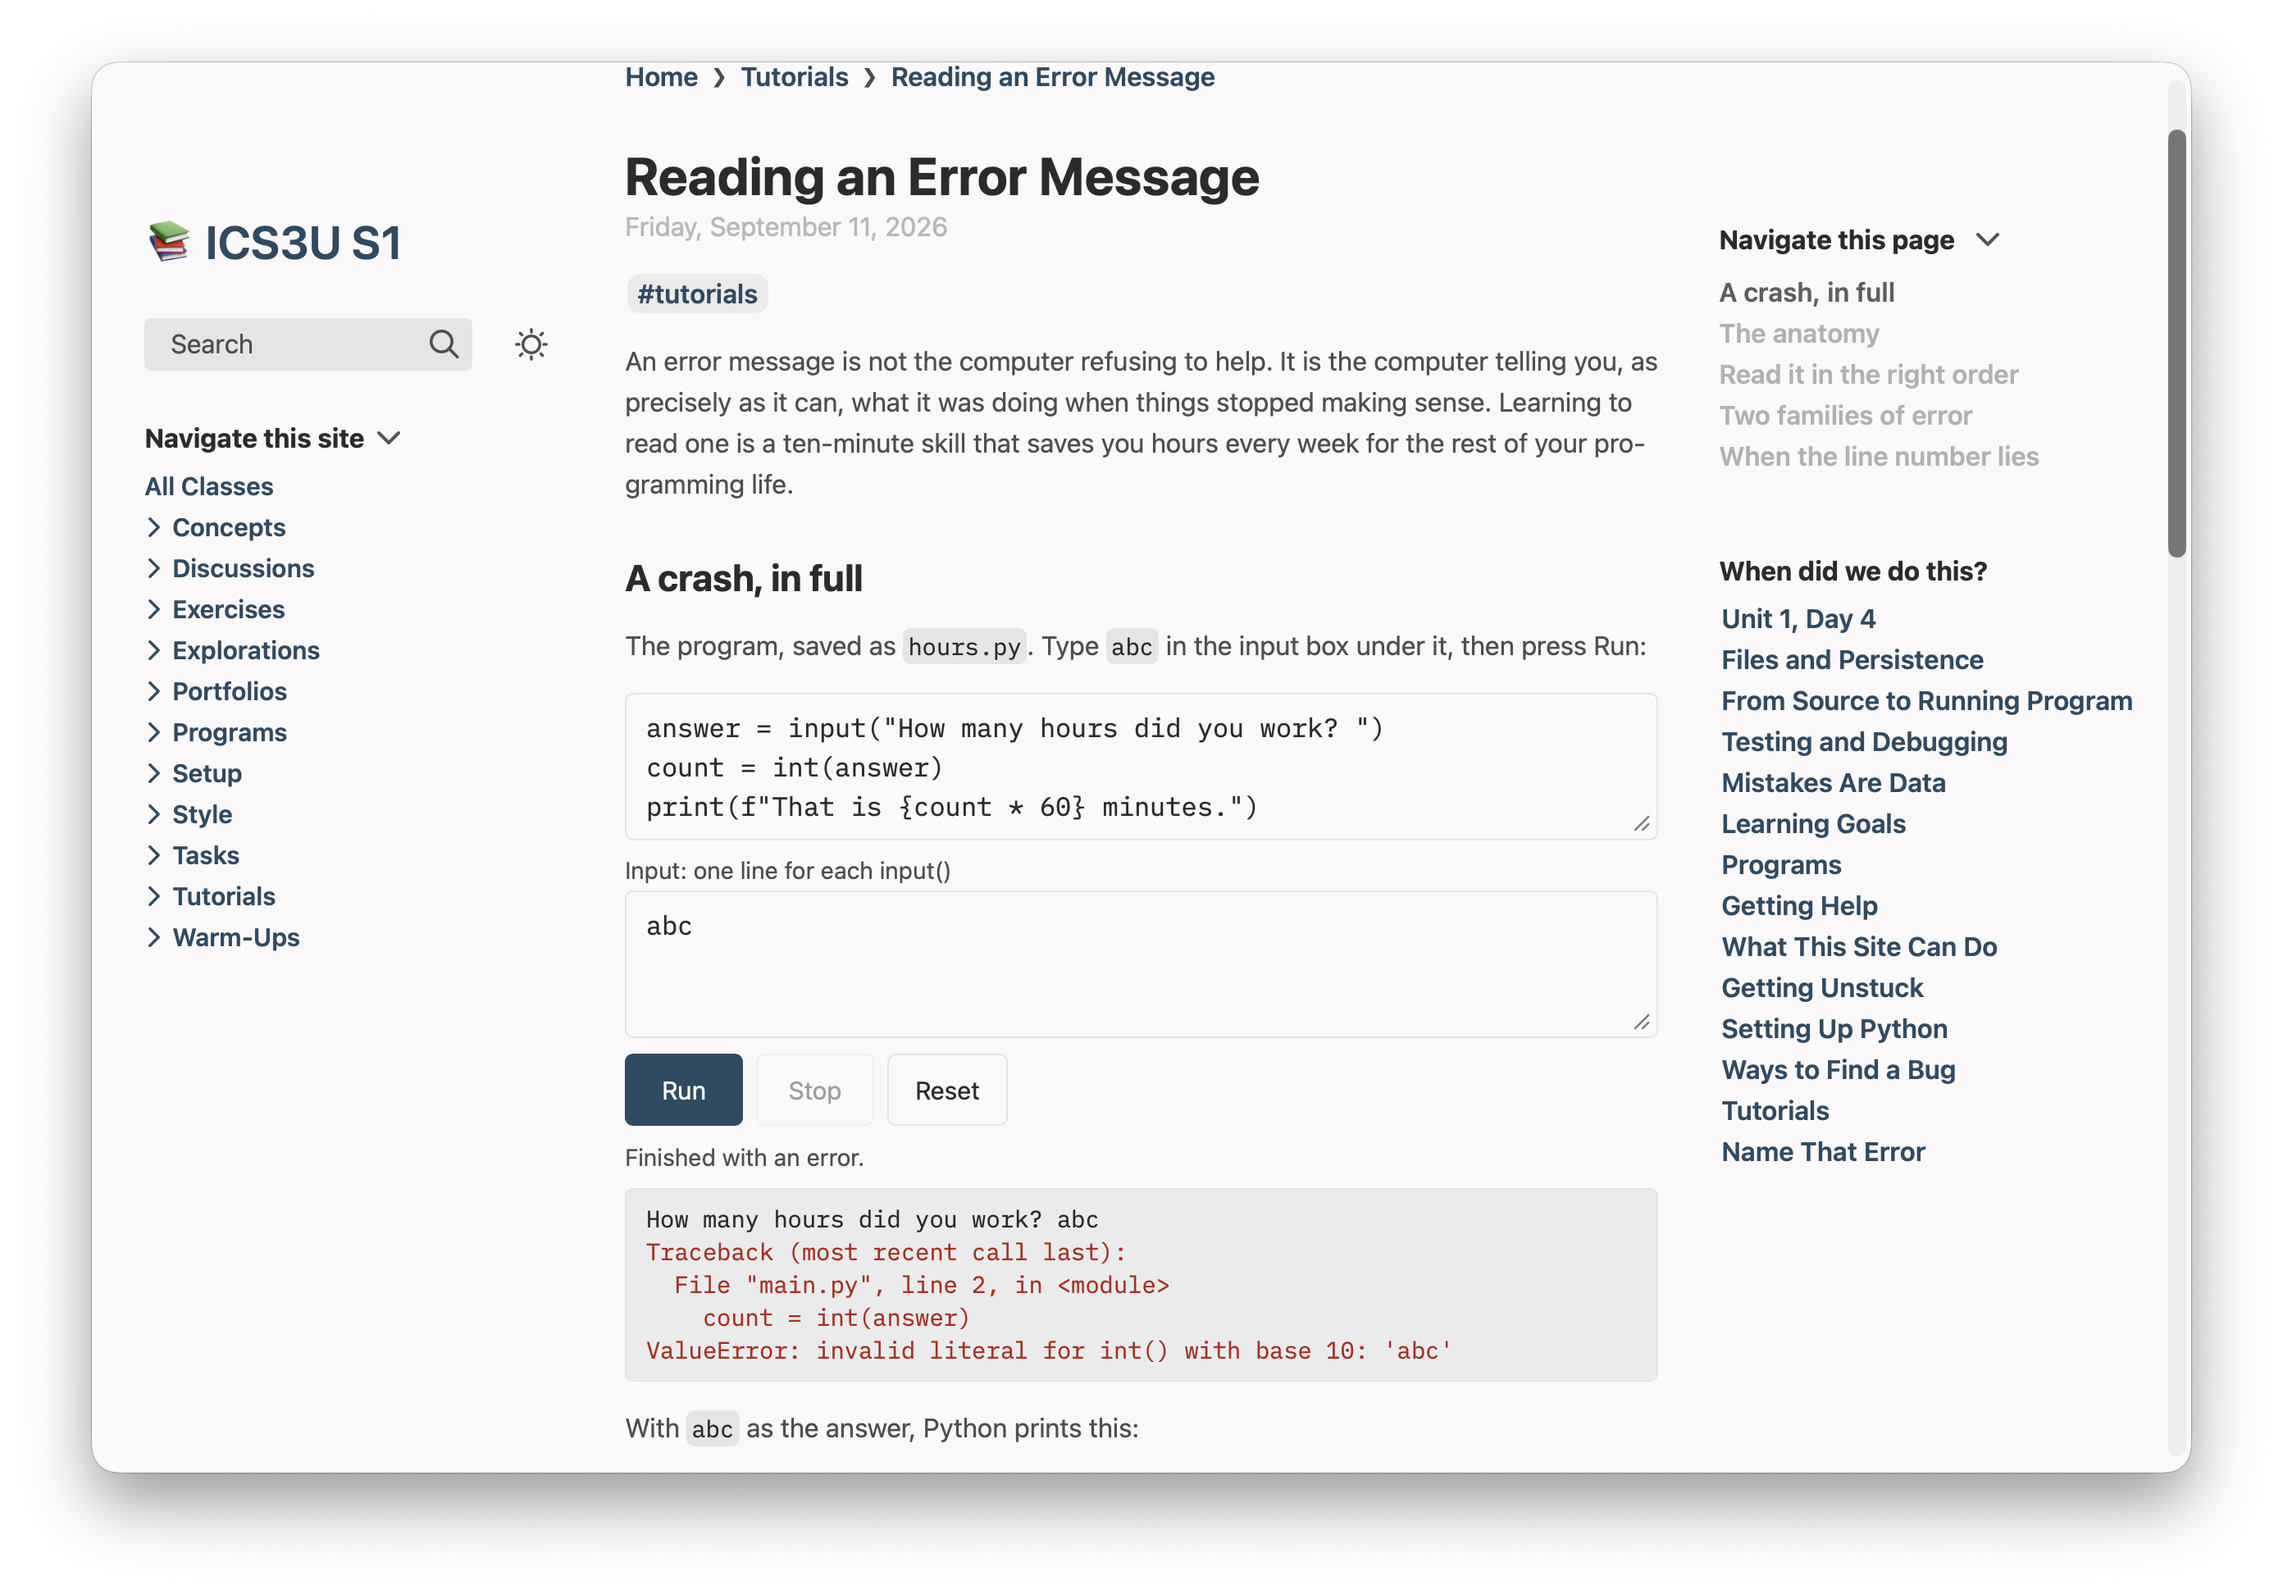
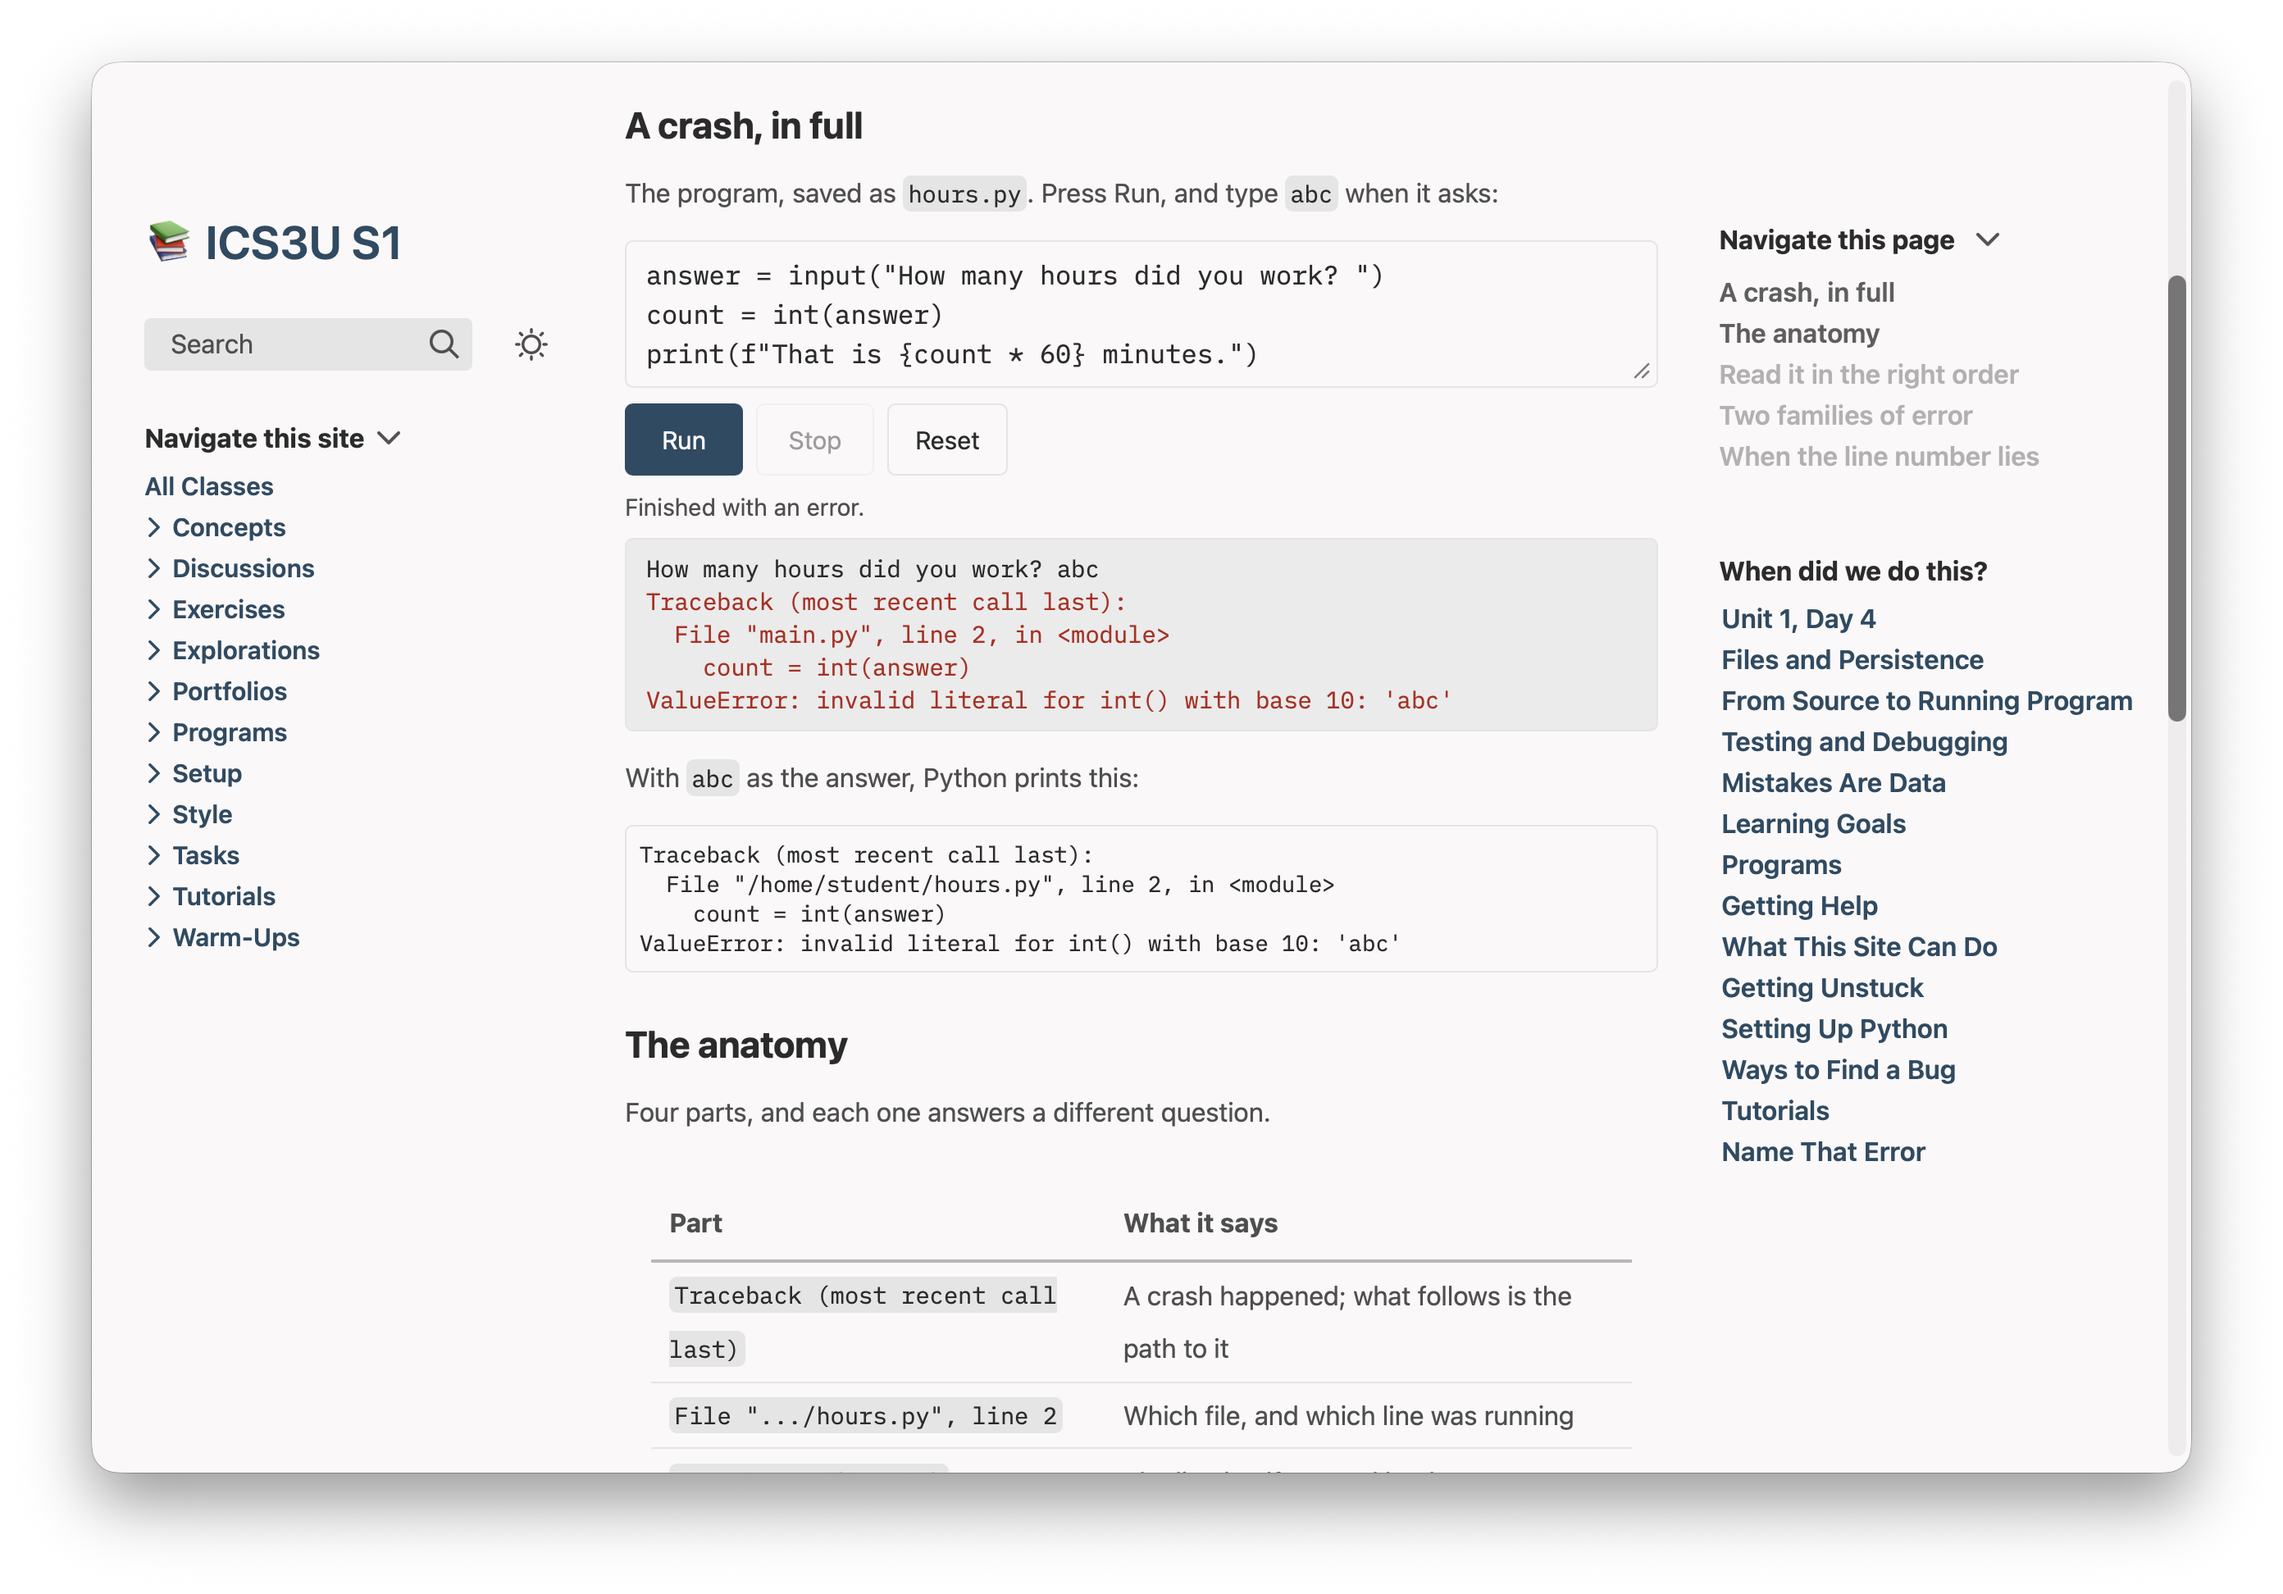
#583: the Code page's live-input pictures (code-python-live, code-swift-live) and the two retaken to answer as they ask
capture.py --code --code-shots code-python-live,code-python-error,code-swift-live,code-swift
(2026-10-17, M4 Pro, macOS 26.6), previews of the kept marketing folder
built from HEAD's recipe (the preview isolates runner pages); Vision read
each expectText; corners and shadows checked; every picture looked at.

Claude-Session: https://claude.ai/code/session_01SfpKYeu3HwPV6Lc3vKHRD6

diff --git a/site/code/index.html b/site/code/index.html
@@ -104,7 +104,7 @@
 
 <section id="python">
   <h2>Python students can run</h2>
-  <p>Mark a page with one line in its settings, add the word <code>run</code> to a Python block, and students get the program in an editor with a <strong>Run</strong> button. They change it, run it, and read what it prints underneath — in the browser they already have, with nothing to install and no account.</p>
+  <p>Mark a page with one line in its settings, add the word <code>run</code> to a Python block, and students get the program in an editor with a <strong>Run</strong> button. They change it, run it, and read what it prints underneath — in the browser they already have, with nothing to install and no account. A program that asks for input stops and waits: the student types the answer right in the output and presses Return, just as in a terminal.</p>
   <h4 class="label">What you type</h4>
   <pre class="fence"><code>---
 codeRunner: true
@@ -127,22 +127,34 @@ for index in range(1, len(names)):
     </picture>
     <figcaption>Students change the program, press Run, and read what it prints underneath.</figcaption>
 </figure>
-  <p>A program that asks for input gets a box under it, one line for each <code>input()</code>. An error ends in Python's own traceback, and its line numbers are the lines in the editor:</p>
+  <p>A program that asks for input stops at each <code>input()</code> and waits, with its prompt in the output and a place right after it to type the answer. Return sends it and the program carries on. This is <em>Talking to the User</em>, answered once and waiting for its second answer:</p>
+  <figure class="shot">
+    <picture>
+      <source srcset="../img/code-python-live-dark.webp" type="image/webp" media="(prefers-color-scheme: dark)">
+      <source srcset="../img/code-python-live-dark.png" media="(prefers-color-scheme: dark)">
+      <source srcset="../img/code-python-live-light.webp" type="image/webp">
+      <img src="../img/code-python-live-light.png" alt="A Python program on the Talking to the User page, run and waiting: the output shows Player name: Priya, then Minutes practised this week: with 185 being typed in a field right after the prompt, and the line Waiting for your answer under the buttons."
+           width="1392" height="972" loading="lazy" decoding="async">
+    </picture>
+    <figcaption>The program stops at each input() and waits. The student types the answer right in the output and presses Return.</figcaption>
+</figure>
+  <p>An error ends in Python's own traceback, and its line numbers are the lines in the editor:</p>
   <figure class="shot">
     <picture>
       <source srcset="../img/code-python-error-dark.webp" type="image/webp" media="(prefers-color-scheme: dark)">
       <source srcset="../img/code-python-error-dark.png" media="(prefers-color-scheme: dark)">
       <source srcset="../img/code-python-error-light.webp" type="image/webp">
-      <img src="../img/code-python-error-light.png" alt="A Python program on the Reading an Error Message page with abc typed in the input box under it, and the traceback it ended in: line 2, then ValueError: invalid literal for int() with base 10: 'abc'."
+      <img src="../img/code-python-error-light.png" alt="A Python program on the Reading an Error Message page that asked how many hours, was answered abc, and ended in a traceback: line 2, then ValueError: invalid literal for int() with base 10: 'abc'."
            width="1392" height="972" loading="lazy" decoding="async">
     </picture>
-    <figcaption>Input typed ahead, one line for each input(). An error names the line in the editor, in Python's own words.</figcaption>
+    <figcaption>Answered abc where it wanted a number. An error names the line in the editor, in Python's own words.</figcaption>
 </figure>
+  <p>Where the site can't stop to ask — a copy of the site put in a folder on a school's own web space, or a page that also shows a video or a picture from another website — students type the answers in a box before they press Run, one line for each <code>input()</code>, and Plantoir says which pages do that and why.</p>
   <h4 class="label">What it accepts</h4>
   <ul class="plain">
     <li><code>codeRunner: true</code> in the settings block opts the page in. Written exactly like that.</li>
     <li><code>```python run</code> makes a block runnable. A plain <code>```python</code> block on the same page stays code to read, so a page can mix the two.</li>
-    <li><code>```python run readonly</code> runs but can't be changed — for a worked example. <code>stdin</code> always shows the input box; <code>autorun</code> runs the block once when it scrolls into view.</li>
+    <li><code>```python run readonly</code> runs but can't be changed — for a worked example. <code>stdin</code> treats a block as asking for input even when its code doesn't visibly call <code>input()</code>; <code>autorun</code> runs the block once when it scrolls into view.</li>
     <li>Python's own standard library: <code>math</code>, <code>random</code>, <code>datetime</code>, <code>json</code>, <code>csv</code> and the rest. Not <code>turtle</code> or <code>tkinter</code>, and nothing that needs <code>pip install</code>.</li>
     <li>A file a program writes lasts for that one run. Each Run starts fresh.</li>
     <li>One program runs on a page at a time, and <strong>Stop</strong> ends any of them, a loop that never ends included.</li>
@@ -154,8 +166,8 @@ for index in range(1, len(names)):
 <hr class="rule">
 
 <section id="swift">
-  <h2>Swift, with the input students type</h2>
-  <p>A <code>```swift run</code> block runs too, on the same page setting. Swift blocks are read-only: students change the input and run it again, and the code stays as you wrote it. Plantoir gets each Swift program ready when you preview the section, so it is waiting when a student opens the page.</p>
+  <h2>Swift that asks, and waits for the answer</h2>
+  <p>A <code>```swift run</code> block runs too, on the same page setting. Swift blocks are read-only: students run the program, answer it as it asks, and run it again with other answers, and the code stays as you wrote it. Plantoir gets each Swift program ready when you preview the section, so it is waiting when a student opens the page.</p>
   <h4 class="label">What you type</h4>
   <pre class="fence"><code>```swift run
 print("What is your name?")
@@ -170,16 +182,27 @@ if let age = Int(ageText) {
 }
 ```</code></pre>
   <h4 class="label">What students get</h4>
-  <p>The code, highlighted, with an input box, <strong>Run</strong> and <strong>Stop</strong>, and a line saying the code itself can't be edited. Each line in the box is one <code>readLine()</code>, shown after its prompt as a terminal would:</p>
+  <p>The code, highlighted, with <strong>Run</strong> and <strong>Stop</strong> and a line saying the code itself can't be edited. Press Run, and each <code>readLine()</code> waits for an answer typed right after its prompt:</p>
+  <figure class="shot">
+    <picture>
+      <source srcset="../img/code-swift-live-dark.webp" type="image/webp" media="(prefers-color-scheme: dark)">
+      <source srcset="../img/code-swift-live-dark.png" media="(prefers-color-scheme: dark)">
+      <source srcset="../img/code-swift-live-light.webp" type="image/webp">
+      <img src="../img/code-swift-live-light.png" alt="A Swift program on a class website, highlighted and not editable, run and waiting: its output shows What is your name?, the answer Priya, How old are you?, and 14 being typed in a field under it, with Waiting for your answer beside the No more input button."
+           width="1392" height="972" loading="lazy" decoding="async">
+    </picture>
+    <figcaption>Each readLine() waits for an answer, typed where the program asked for it.</figcaption>
+</figure>
+  <p>With its answers, it carries on — the same transcript a terminal would show. Where the site can't stop to ask, the answers go in a box before Run, as for Python:</p>
   <figure class="shot">
     <picture>
       <source srcset="../img/code-swift-dark.webp" type="image/webp" media="(prefers-color-scheme: dark)">
       <source srcset="../img/code-swift-dark.png" media="(prefers-color-scheme: dark)">
       <source srcset="../img/code-swift-light.webp" type="image/webp">
-      <img src="../img/code-swift-light.png" alt="A Swift program on a class website, highlighted and not editable, with Priya and 14 typed on two lines of its input box, and its output: each question with the answer read for it, then Hello, Priya! Next year you will be 15."
+      <img src="../img/code-swift-light.png" alt="A Swift program on a class website, highlighted and not editable, answered Priya and 14, and its output: each question with its answer after it, then Hello, Priya! Next year you will be 15."
            width="1392" height="972" loading="lazy" decoding="async">
     </picture>
-    <figcaption>Swift runs with the input students type. The code stays as you wrote it.</figcaption>
+    <figcaption>With its answers, the program carries on. The code stays as you wrote it.</figcaption>
 </figure>
   <h4 class="label">What it accepts</h4>
   <ul class="plain">
@@ -239,10 +262,10 @@ if let age = Int(ageText) {
 
 <section id="ask">
   <h2>Or ask Claude or Codex</h2>
-  <p>You don't have to learn any of this. Plantoir writes its guidance for runnable code and for quizzes into your working folder, and keeps it up to date, so Claude Code or Codex started there already knows how to opt a page in, which blocks are worth running, what to tell students to type in the input box, and how to write each kind of question. There is nothing to install or paste.</p>
+  <p>You don't have to learn any of this. Plantoir writes its guidance for runnable code and for quizzes into your working folder, and keeps it up to date, so Claude Code or Codex started there already knows how to opt a page in, which blocks are worth running, what to tell students to type when a program asks, and how to write each kind of question. There is nothing to install or paste.</p>
   <p>Asked, in a working folder holding an ICS3U course, something like:</p>
   <pre class="fence ask"><code>Make the examples on the page "courses/ICS3U/Concepts/Functions.md" runnable, so students can try them.</code></pre>
-  <p>its guidance has it add <code>codeRunner: true</code> to the page's settings, the word <code>run</code> to each block worth running, and a sentence telling students what to type in the input box. Asked to <em>add a 5-question check to this page</em>, it writes five <code>[!quiz]</code> callouts of different kinds, each with its answer.</p>
+  <p>its guidance has it add <code>codeRunner: true</code> to the page's settings, the word <code>run</code> to each block worth running, and a sentence telling students what to type when the program asks. Asked to <em>add a 5-question check to this page</em>, it writes five <code>[!quiz]</code> callouts of different kinds, each with its answer.</p>
   <p>Open either from a course's menu with <a href="../features/#bring-your-own">Revise With ▸ Claude… or Codex…</a>, which starts it in your working folder.</p>
 </section>
 
